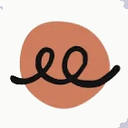
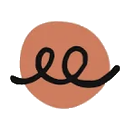
Clear the paper square around Claude Duet's picture
The off-white background and three stray corner marks from the source
screenshot become transparent, so the picture sits cleanly on the agent
mark's white tile.

diff --git a/CHANGELOG.md b/CHANGELOG.md
@@ -566,3 +566,10 @@ An independent review of the two entries above found these, now fixed:
   `claude` harness (Claude, the connected app) now shows `claude-duet.png`, the coral
   circle with the black loop, cut to 128 by 128 on the paper colour like the other
   agents. Claude Code (`claude_code`) keeps its own picture.
+
+## 2026-10-28 — Claude Duet's picture without its paper square
+
+- `claude-duet.png` keeps only the coral circle and the black loop; the off-white paper
+  around them, and three small marks left in its corners from the screenshot it was cut
+  from, are now transparent. Agent pictures sit on the mark's white tile, where the
+  off-white showed as a faint square (reviewer, 28 Oct 17:38Z).
